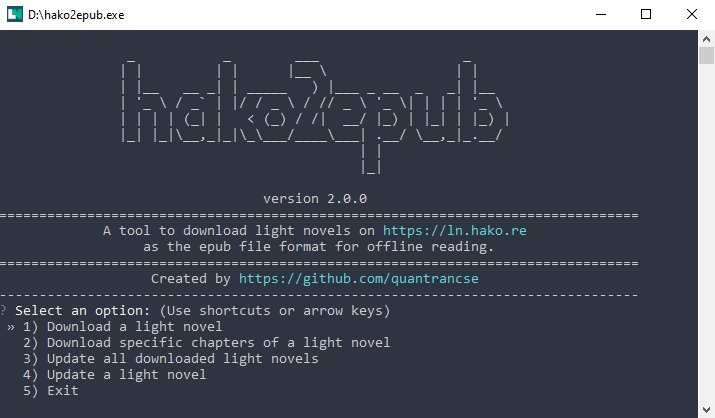
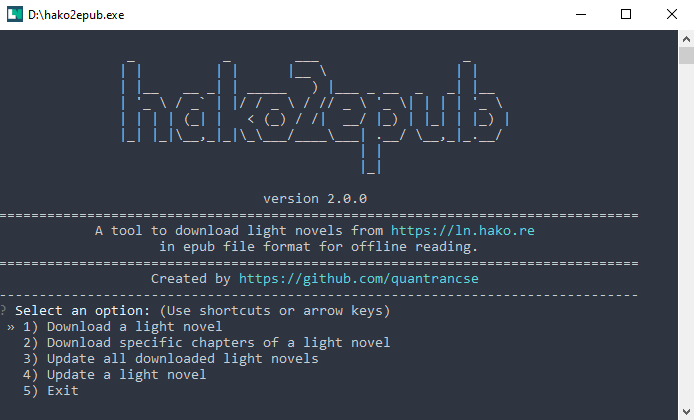
Update intro

diff --git a/hako2epub.py b/hako2epub.py
@@ -824,7 +824,7 @@ class Engine():
 
 if __name__ == '__main__':
     parser = argparse.ArgumentParser(
-        description='A tool to download light novels on https://ln.hako.re as the epub file format for offline reading.')
+        description='A tool to download light novels from https://ln.hako.re in epub file format for offline reading.')
     parser.add_argument('-v', '--version', action='version', version='hako2epub v%s' % tool_version)
     parser.add_argument('ln_url', type=str, nargs='?', default='',
                         help='url to the light novel page')

diff --git a/README.md b/README.md
@@ -10,7 +10,7 @@
   <h2 align="center">hako2epub</h2>
 
   <p align="center">
-    A tool to download light novel on <a href=https://ln.hako.re/>ln.hako.re</a> as epub file format
+    A tool to download light novels from <a href=https://ln.hako.re/>ln.hako.re</a> in epub file format for offline reading.
     <br />
     <br />
     <a href="https://rebrand.ly/hako2epub">Download</a>
@@ -41,7 +41,7 @@
 <!-- ABOUT THE PROJECT -->
 ## About The Project
 
-A tool to download light novels on [ln.hako.re](https://ln.hako.re) as the epub file format for offline reading.
+A tool to download light novels from [ln.hako.re](https://ln.hako.re) in epub file format for offline reading.
 
 **_Notes:_**
 * _This tool is a personal standalone project, it does not have any related to [ln.hako.re](https://ln.hako.re) administrators._
